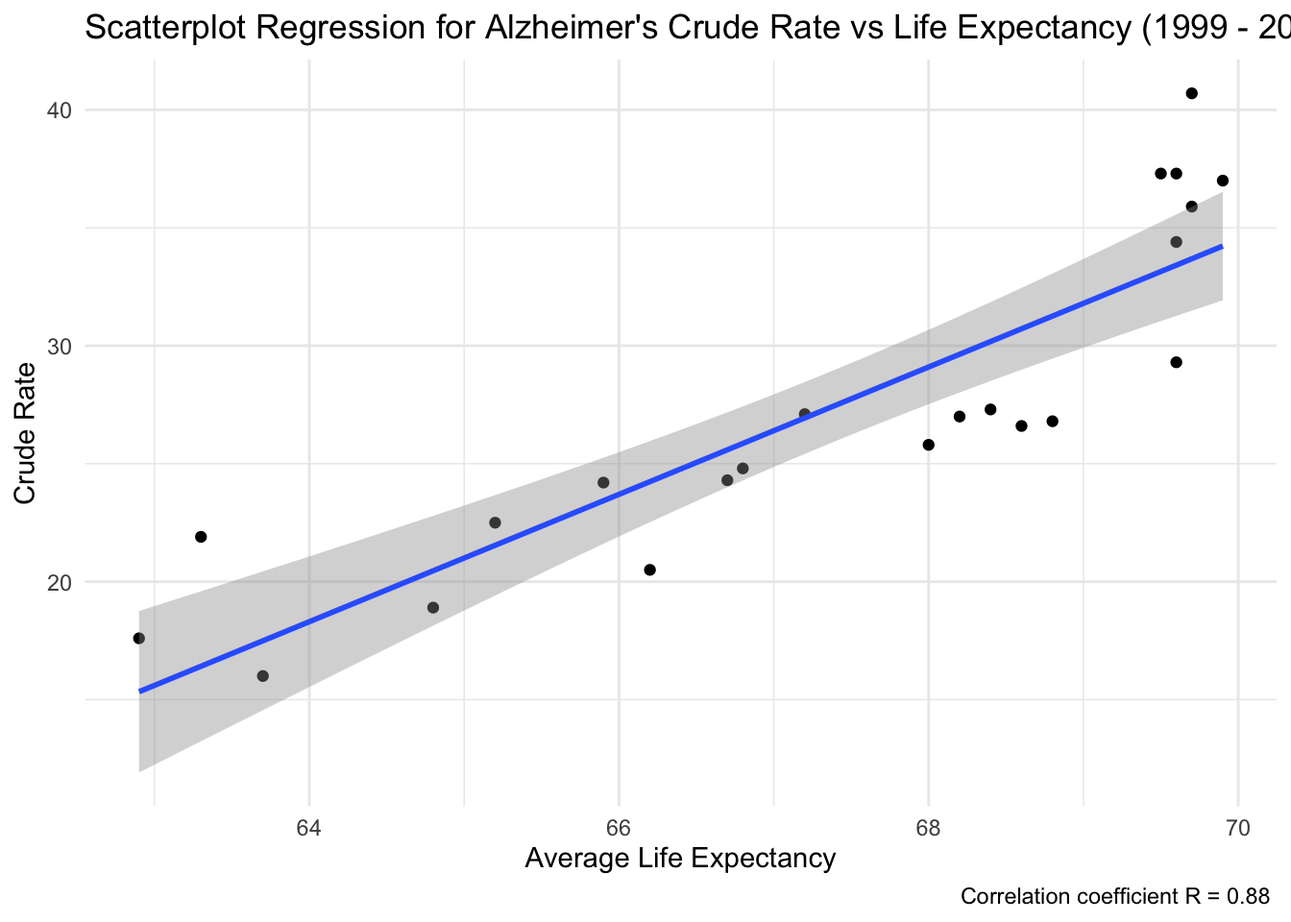
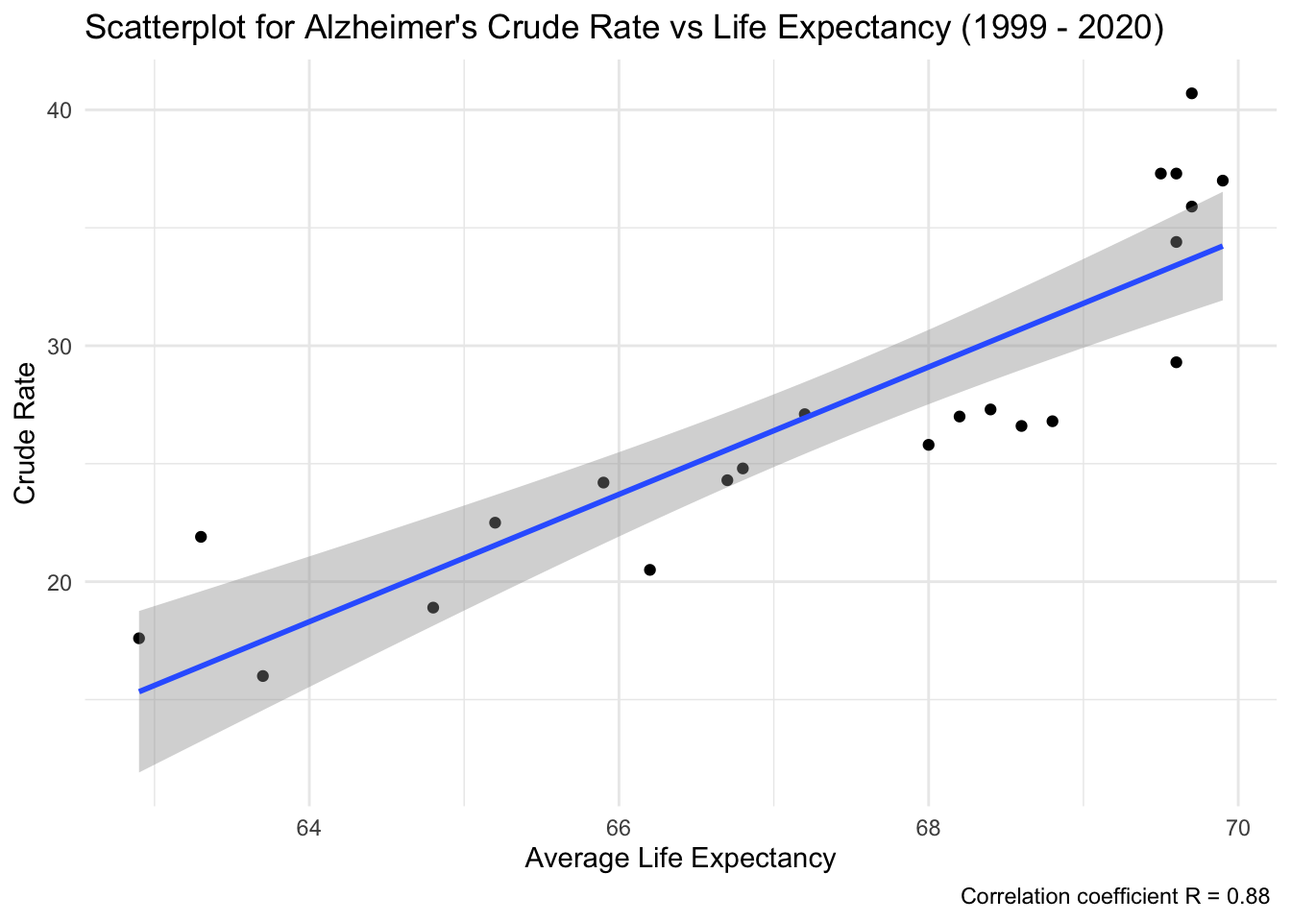
more changes in titles

Changed region(s): [[0.1875, 0.0, 1.0, 0.0625]]

diff --git a/docs/results.html b/docs/results.html
@@ -783,7 +783,7 @@ pre > code.sourceCode > span > a:first-child::before { text-decoration: underlin
 <span id="cb19-14"><a href="#cb19-14" aria-hidden="true" tabindex="-1"></a><span class="fu">ggplot</span>(expectancy_alzheimer_regression_2 <span class="sc">%&gt;%</span> <span class="fu">select</span>(<span class="st">`</span><span class="at">Crude_Rate</span><span class="st">`</span>,<span class="st">`</span><span class="at">Average Life Expectancy (Years)</span><span class="st">`</span>), <span class="fu">aes</span>(<span class="at">x =</span> <span class="st">`</span><span class="at">Average Life Expectancy (Years)</span><span class="st">`</span>, <span class="at">y =</span> <span class="st">`</span><span class="at">Crude_Rate</span><span class="st">`</span>)) <span class="sc">+</span></span>
 <span id="cb19-15"><a href="#cb19-15" aria-hidden="true" tabindex="-1"></a>  <span class="fu">geom_point</span>() <span class="sc">+</span> </span>
 <span id="cb19-16"><a href="#cb19-16" aria-hidden="true" tabindex="-1"></a>  <span class="fu">geom_smooth</span>(<span class="at">method =</span> <span class="st">"lm"</span>) <span class="sc">+</span> </span>
-<span id="cb19-17"><a href="#cb19-17" aria-hidden="true" tabindex="-1"></a>  <span class="fu">labs</span>(<span class="at">x =</span> <span class="st">"Average Life Expectancy"</span>, <span class="at">y =</span> <span class="st">"Crude Rate"</span>, <span class="at">title =</span> <span class="st">"Scatterplot Regression for Alzheimer's Crude Rate vs Life Expectancy (1999 - 2020)"</span>) <span class="sc">+</span> </span>
+<span id="cb19-17"><a href="#cb19-17" aria-hidden="true" tabindex="-1"></a>  <span class="fu">labs</span>(<span class="at">x =</span> <span class="st">"Average Life Expectancy"</span>, <span class="at">y =</span> <span class="st">"Crude Rate"</span>, <span class="at">title =</span> <span class="st">"Scatterplot for Alzheimer's Crude Rate vs Life Expectancy (1999 - 2020)"</span>) <span class="sc">+</span> </span>
 <span id="cb19-18"><a href="#cb19-18" aria-hidden="true" tabindex="-1"></a>  <span class="fu">labs</span>(<span class="at">caption =</span> <span class="st">"Correlation coefficient R = 0.88 "</span>) <span class="sc">+</span></span>
 <span id="cb19-19"><a href="#cb19-19" aria-hidden="true" tabindex="-1"></a>  <span class="fu">theme</span>(<span class="at">plot.caption =</span> <span class="fu">element_text</span>(<span class="at">hjust=</span>.<span class="dv">1</span>)) <span class="sc">+</span></span>
 <span id="cb19-20"><a href="#cb19-20" aria-hidden="true" tabindex="-1"></a>  <span class="fu">theme_minimal</span>()</span></code><button title="Copy to Clipboard" class="code-copy-button"><i class="bi"></i></button></pre></div>
@@ -961,7 +961,7 @@ sample estimates:
 </details>
 <div class="cell-output-display">
 
-<div class="tabwid"><style>.cl-a2020d84{}.cl-a1fec1d8{font-family:'Helvetica';font-size:11pt;font-weight:normal;font-style:normal;text-decoration:none;color:rgba(0, 0, 0, 1.00);background-color:transparent;}.cl-a2002226{margin:0;text-align:left;border-bottom: 0 solid rgba(0, 0, 0, 1.00);border-top: 0 solid rgba(0, 0, 0, 1.00);border-left: 0 solid rgba(0, 0, 0, 1.00);border-right: 0 solid rgba(0, 0, 0, 1.00);padding-bottom:5pt;padding-top:5pt;padding-left:5pt;padding-right:5pt;line-height: 1;background-color:transparent;}.cl-a2002227{margin:0;text-align:right;border-bottom: 0 solid rgba(0, 0, 0, 1.00);border-top: 0 solid rgba(0, 0, 0, 1.00);border-left: 0 solid rgba(0, 0, 0, 1.00);border-right: 0 solid rgba(0, 0, 0, 1.00);padding-bottom:5pt;padding-top:5pt;padding-left:5pt;padding-right:5pt;line-height: 1;background-color:transparent;}.cl-a2002b40{width:0.75in;background-color:transparent;vertical-align: middle;border-bottom: 1.5pt solid rgba(102, 102, 102, 1.00);border-top: 1.5pt solid rgba(102, 102, 102, 1.00);border-left: 0 solid rgba(0, 0, 0, 1.00);border-right: 0 solid rgba(0, 0, 0, 1.00);margin-bottom:0;margin-top:0;margin-left:0;margin-right:0;}.cl-a2002b41{width:0.75in;background-color:transparent;vertical-align: middle;border-bottom: 1.5pt solid rgba(102, 102, 102, 1.00);border-top: 1.5pt solid rgba(102, 102, 102, 1.00);border-left: 0 solid rgba(0, 0, 0, 1.00);border-right: 0 solid rgba(0, 0, 0, 1.00);margin-bottom:0;margin-top:0;margin-left:0;margin-right:0;}.cl-a2002b42{width:0.75in;background-color:transparent;vertical-align: middle;border-bottom: 0 solid rgba(0, 0, 0, 1.00);border-top: 0 solid rgba(0, 0, 0, 1.00);border-left: 0 solid rgba(0, 0, 0, 1.00);border-right: 0 solid rgba(0, 0, 0, 1.00);margin-bottom:0;margin-top:0;margin-left:0;margin-right:0;}.cl-a2002b4a{width:0.75in;background-color:transparent;vertical-align: middle;border-bottom: 0 solid rgba(0, 0, 0, 1.00);border-top: 0 solid rgba(0, 0, 0, 1.00);border-left: 0 solid rgba(0, 0, 0, 1.00);border-right: 0 solid rgba(0, 0, 0, 1.00);margin-bottom:0;margin-top:0;margin-left:0;margin-right:0;}.cl-a2002b4b{width:0.75in;background-color:transparent;vertical-align: middle;border-bottom: 1.5pt solid rgba(102, 102, 102, 1.00);border-top: 0 solid rgba(0, 0, 0, 1.00);border-left: 0 solid rgba(0, 0, 0, 1.00);border-right: 0 solid rgba(0, 0, 0, 1.00);margin-bottom:0;margin-top:0;margin-left:0;margin-right:0;}.cl-a2002b4c{width:0.75in;background-color:transparent;vertical-align: middle;border-bottom: 1.5pt solid rgba(102, 102, 102, 1.00);border-top: 0 solid rgba(0, 0, 0, 1.00);border-left: 0 solid rgba(0, 0, 0, 1.00);border-right: 0 solid rgba(0, 0, 0, 1.00);margin-bottom:0;margin-top:0;margin-left:0;margin-right:0;}</style><table data-quarto-disable-processing="true" class="cl-a2020d84"><thead><tr style="overflow-wrap:break-word;"><th class="cl-a2002b40"><p class="cl-a2002226"><span class="cl-a1fec1d8">State</span></p></th><th class="cl-a2002b41"><p class="cl-a2002227"><span class="cl-a1fec1d8">Avg</span></p></th></tr></thead><tbody><tr style="overflow-wrap:break-word;"><td class="cl-a2002b42"><p class="cl-a2002226"><span class="cl-a1fec1d8">Wyoming</span></p></td><td class="cl-a2002b4a"><p class="cl-a2002227"><span class="cl-a1fec1d8">22.60</span></p></td></tr><tr style="overflow-wrap:break-word;"><td class="cl-a2002b42"><p class="cl-a2002226"><span class="cl-a1fec1d8">Alaska</span></p></td><td class="cl-a2002b4a"><p class="cl-a2002227"><span class="cl-a1fec1d8">22.56</span></p></td></tr><tr style="overflow-wrap:break-word;"><td class="cl-a2002b42"><p class="cl-a2002226"><span class="cl-a1fec1d8">Montana</span></p></td><td class="cl-a2002b4a"><p class="cl-a2002227"><span class="cl-a1fec1d8">22.15</span></p></td></tr><tr style="overflow-wrap:break-word;"><td class="cl-a2002b42"><p class="cl-a2002226"><span class="cl-a1fec1d8">New Mexico</span></p></td><td class="cl-a2002b4a"><p class="cl-a2002227"><span class="cl-a1fec1d8">20.64</span></p></td></tr><tr style="overflow-wrap:break-word;"><td class="cl-a2002b42"><p class="cl-a2002226"><span class="cl-a1fec1d8">Nevada</span></p></td><td class="cl-a2002b4a"><p class="cl-a2002227"><span class="cl-a1fec1d8">19.44</span></p></td></tr><tr style="overflow-wrap:break-word;"><td class="cl-a2002b42"><p class="cl-a2002226"><span class="cl-a1fec1d8">Idaho</span></p></td><td class="cl-a2002b4a"><p class="cl-a2002227"><span class="cl-a1fec1d8">18.53</span></p></td></tr><tr style="overflow-wrap:break-word;"><td class="cl-a2002b42"><p class="cl-a2002226"><span class="cl-a1fec1d8">Utah</span></p></td><td class="cl-a2002b4a"><p class="cl-a2002227"><span class="cl-a1fec1d8">18.44</span></p></td></tr><tr style="overflow-wrap:break-word;"><td class="cl-a2002b42"><p class="cl-a2002226"><span class="cl-a1fec1d8">Colorado</span></p></td><td class="cl-a2002b4a"><p class="cl-a2002227"><span class="cl-a1fec1d8">18.01</span></p></td></tr><tr style="overflow-wrap:break-word;"><td class="cl-a2002b42"><p class="cl-a2002226"><span class="cl-a1fec1d8">Oklahoma</span></p></td><td class="cl-a2002b4a"><p class="cl-a2002227"><span class="cl-a1fec1d8">16.98</span></p></td></tr><tr style="overflow-wrap:break-word;"><td class="cl-a2002b4b"><p class="cl-a2002226"><span class="cl-a1fec1d8">Arizona</span></p></td><td class="cl-a2002b4c"><p class="cl-a2002227"><span class="cl-a1fec1d8">16.93</span></p></td></tr></tbody></table></div>
+<div class="tabwid"><style>.cl-fdb1b4a4{}.cl-fdae6a4c{font-family:'Helvetica';font-size:11pt;font-weight:normal;font-style:normal;text-decoration:none;color:rgba(0, 0, 0, 1.00);background-color:transparent;}.cl-fdafcb3a{margin:0;text-align:left;border-bottom: 0 solid rgba(0, 0, 0, 1.00);border-top: 0 solid rgba(0, 0, 0, 1.00);border-left: 0 solid rgba(0, 0, 0, 1.00);border-right: 0 solid rgba(0, 0, 0, 1.00);padding-bottom:5pt;padding-top:5pt;padding-left:5pt;padding-right:5pt;line-height: 1;background-color:transparent;}.cl-fdafcb3b{margin:0;text-align:right;border-bottom: 0 solid rgba(0, 0, 0, 1.00);border-top: 0 solid rgba(0, 0, 0, 1.00);border-left: 0 solid rgba(0, 0, 0, 1.00);border-right: 0 solid rgba(0, 0, 0, 1.00);padding-bottom:5pt;padding-top:5pt;padding-left:5pt;padding-right:5pt;line-height: 1;background-color:transparent;}.cl-fdafd468{width:0.75in;background-color:transparent;vertical-align: middle;border-bottom: 1.5pt solid rgba(102, 102, 102, 1.00);border-top: 1.5pt solid rgba(102, 102, 102, 1.00);border-left: 0 solid rgba(0, 0, 0, 1.00);border-right: 0 solid rgba(0, 0, 0, 1.00);margin-bottom:0;margin-top:0;margin-left:0;margin-right:0;}.cl-fdafd469{width:0.75in;background-color:transparent;vertical-align: middle;border-bottom: 1.5pt solid rgba(102, 102, 102, 1.00);border-top: 1.5pt solid rgba(102, 102, 102, 1.00);border-left: 0 solid rgba(0, 0, 0, 1.00);border-right: 0 solid rgba(0, 0, 0, 1.00);margin-bottom:0;margin-top:0;margin-left:0;margin-right:0;}.cl-fdafd46a{width:0.75in;background-color:transparent;vertical-align: middle;border-bottom: 0 solid rgba(0, 0, 0, 1.00);border-top: 0 solid rgba(0, 0, 0, 1.00);border-left: 0 solid rgba(0, 0, 0, 1.00);border-right: 0 solid rgba(0, 0, 0, 1.00);margin-bottom:0;margin-top:0;margin-left:0;margin-right:0;}.cl-fdafd46b{width:0.75in;background-color:transparent;vertical-align: middle;border-bottom: 0 solid rgba(0, 0, 0, 1.00);border-top: 0 solid rgba(0, 0, 0, 1.00);border-left: 0 solid rgba(0, 0, 0, 1.00);border-right: 0 solid rgba(0, 0, 0, 1.00);margin-bottom:0;margin-top:0;margin-left:0;margin-right:0;}.cl-fdafd46c{width:0.75in;background-color:transparent;vertical-align: middle;border-bottom: 1.5pt solid rgba(102, 102, 102, 1.00);border-top: 0 solid rgba(0, 0, 0, 1.00);border-left: 0 solid rgba(0, 0, 0, 1.00);border-right: 0 solid rgba(0, 0, 0, 1.00);margin-bottom:0;margin-top:0;margin-left:0;margin-right:0;}.cl-fdafd472{width:0.75in;background-color:transparent;vertical-align: middle;border-bottom: 1.5pt solid rgba(102, 102, 102, 1.00);border-top: 0 solid rgba(0, 0, 0, 1.00);border-left: 0 solid rgba(0, 0, 0, 1.00);border-right: 0 solid rgba(0, 0, 0, 1.00);margin-bottom:0;margin-top:0;margin-left:0;margin-right:0;}</style><table data-quarto-disable-processing="true" class="cl-fdb1b4a4"><thead><tr style="overflow-wrap:break-word;"><th class="cl-fdafd468"><p class="cl-fdafcb3a"><span class="cl-fdae6a4c">State</span></p></th><th class="cl-fdafd469"><p class="cl-fdafcb3b"><span class="cl-fdae6a4c">Avg</span></p></th></tr></thead><tbody><tr style="overflow-wrap:break-word;"><td class="cl-fdafd46a"><p class="cl-fdafcb3a"><span class="cl-fdae6a4c">Wyoming</span></p></td><td class="cl-fdafd46b"><p class="cl-fdafcb3b"><span class="cl-fdae6a4c">22.60</span></p></td></tr><tr style="overflow-wrap:break-word;"><td class="cl-fdafd46a"><p class="cl-fdafcb3a"><span class="cl-fdae6a4c">Alaska</span></p></td><td class="cl-fdafd46b"><p class="cl-fdafcb3b"><span class="cl-fdae6a4c">22.56</span></p></td></tr><tr style="overflow-wrap:break-word;"><td class="cl-fdafd46a"><p class="cl-fdafcb3a"><span class="cl-fdae6a4c">Montana</span></p></td><td class="cl-fdafd46b"><p class="cl-fdafcb3b"><span class="cl-fdae6a4c">22.15</span></p></td></tr><tr style="overflow-wrap:break-word;"><td class="cl-fdafd46a"><p class="cl-fdafcb3a"><span class="cl-fdae6a4c">New Mexico</span></p></td><td class="cl-fdafd46b"><p class="cl-fdafcb3b"><span class="cl-fdae6a4c">20.64</span></p></td></tr><tr style="overflow-wrap:break-word;"><td class="cl-fdafd46a"><p class="cl-fdafcb3a"><span class="cl-fdae6a4c">Nevada</span></p></td><td class="cl-fdafd46b"><p class="cl-fdafcb3b"><span class="cl-fdae6a4c">19.44</span></p></td></tr><tr style="overflow-wrap:break-word;"><td class="cl-fdafd46a"><p class="cl-fdafcb3a"><span class="cl-fdae6a4c">Idaho</span></p></td><td class="cl-fdafd46b"><p class="cl-fdafcb3b"><span class="cl-fdae6a4c">18.53</span></p></td></tr><tr style="overflow-wrap:break-word;"><td class="cl-fdafd46a"><p class="cl-fdafcb3a"><span class="cl-fdae6a4c">Utah</span></p></td><td class="cl-fdafd46b"><p class="cl-fdafcb3b"><span class="cl-fdae6a4c">18.44</span></p></td></tr><tr style="overflow-wrap:break-word;"><td class="cl-fdafd46a"><p class="cl-fdafcb3a"><span class="cl-fdae6a4c">Colorado</span></p></td><td class="cl-fdafd46b"><p class="cl-fdafcb3b"><span class="cl-fdae6a4c">18.01</span></p></td></tr><tr style="overflow-wrap:break-word;"><td class="cl-fdafd46a"><p class="cl-fdafcb3a"><span class="cl-fdae6a4c">Oklahoma</span></p></td><td class="cl-fdafd46b"><p class="cl-fdafcb3b"><span class="cl-fdae6a4c">16.98</span></p></td></tr><tr style="overflow-wrap:break-word;"><td class="cl-fdafd46c"><p class="cl-fdafcb3a"><span class="cl-fdae6a4c">Arizona</span></p></td><td class="cl-fdafd472"><p class="cl-fdafcb3b"><span class="cl-fdae6a4c">16.93</span></p></td></tr></tbody></table></div>
 </div>
 <details>
 <summary>Code</summary>
@@ -987,7 +987,7 @@ sample estimates:
 </details>
 <div class="cell-output-display">
 
-<div class="tabwid"><style>.cl-a20ae684{}.cl-a207f0dc{font-family:'Helvetica';font-size:11pt;font-weight:normal;font-style:normal;text-decoration:none;color:rgba(0, 0, 0, 1.00);background-color:transparent;}.cl-a2093352{margin:0;text-align:left;border-bottom: 0 solid rgba(0, 0, 0, 1.00);border-top: 0 solid rgba(0, 0, 0, 1.00);border-left: 0 solid rgba(0, 0, 0, 1.00);border-right: 0 solid rgba(0, 0, 0, 1.00);padding-bottom:5pt;padding-top:5pt;padding-left:5pt;padding-right:5pt;line-height: 1;background-color:transparent;}.cl-a2093353{margin:0;text-align:right;border-bottom: 0 solid rgba(0, 0, 0, 1.00);border-top: 0 solid rgba(0, 0, 0, 1.00);border-left: 0 solid rgba(0, 0, 0, 1.00);border-right: 0 solid rgba(0, 0, 0, 1.00);padding-bottom:5pt;padding-top:5pt;padding-left:5pt;padding-right:5pt;line-height: 1;background-color:transparent;}.cl-a2093afa{width:0.75in;background-color:transparent;vertical-align: middle;border-bottom: 1.5pt solid rgba(102, 102, 102, 1.00);border-top: 1.5pt solid rgba(102, 102, 102, 1.00);border-left: 0 solid rgba(0, 0, 0, 1.00);border-right: 0 solid rgba(0, 0, 0, 1.00);margin-bottom:0;margin-top:0;margin-left:0;margin-right:0;}.cl-a2093afb{width:0.75in;background-color:transparent;vertical-align: middle;border-bottom: 1.5pt solid rgba(102, 102, 102, 1.00);border-top: 1.5pt solid rgba(102, 102, 102, 1.00);border-left: 0 solid rgba(0, 0, 0, 1.00);border-right: 0 solid rgba(0, 0, 0, 1.00);margin-bottom:0;margin-top:0;margin-left:0;margin-right:0;}.cl-a2093afc{width:0.75in;background-color:transparent;vertical-align: middle;border-bottom: 0 solid rgba(0, 0, 0, 1.00);border-top: 0 solid rgba(0, 0, 0, 1.00);border-left: 0 solid rgba(0, 0, 0, 1.00);border-right: 0 solid rgba(0, 0, 0, 1.00);margin-bottom:0;margin-top:0;margin-left:0;margin-right:0;}.cl-a2093b04{width:0.75in;background-color:transparent;vertical-align: middle;border-bottom: 0 solid rgba(0, 0, 0, 1.00);border-top: 0 solid rgba(0, 0, 0, 1.00);border-left: 0 solid rgba(0, 0, 0, 1.00);border-right: 0 solid rgba(0, 0, 0, 1.00);margin-bottom:0;margin-top:0;margin-left:0;margin-right:0;}.cl-a2093b05{width:0.75in;background-color:transparent;vertical-align: middle;border-bottom: 1.5pt solid rgba(102, 102, 102, 1.00);border-top: 0 solid rgba(0, 0, 0, 1.00);border-left: 0 solid rgba(0, 0, 0, 1.00);border-right: 0 solid rgba(0, 0, 0, 1.00);margin-bottom:0;margin-top:0;margin-left:0;margin-right:0;}.cl-a2093b0e{width:0.75in;background-color:transparent;vertical-align: middle;border-bottom: 1.5pt solid rgba(102, 102, 102, 1.00);border-top: 0 solid rgba(0, 0, 0, 1.00);border-left: 0 solid rgba(0, 0, 0, 1.00);border-right: 0 solid rgba(0, 0, 0, 1.00);margin-bottom:0;margin-top:0;margin-left:0;margin-right:0;}</style><table data-quarto-disable-processing="true" class="cl-a20ae684"><thead><tr style="overflow-wrap:break-word;"><th class="cl-a2093afa"><p class="cl-a2093352"><span class="cl-a207f0dc">State</span></p></th><th class="cl-a2093afb"><p class="cl-a2093353"><span class="cl-a207f0dc">densityMi</span></p></th></tr></thead><tbody><tr style="overflow-wrap:break-word;"><td class="cl-a2093afc"><p class="cl-a2093352"><span class="cl-a207f0dc">Alaska</span></p></td><td class="cl-a2093b04"><p class="cl-a2093353"><span class="cl-a207f0dc">1.28</span></p></td></tr><tr style="overflow-wrap:break-word;"><td class="cl-a2093afc"><p class="cl-a2093352"><span class="cl-a207f0dc">Wyoming</span></p></td><td class="cl-a2093b04"><p class="cl-a2093353"><span class="cl-a207f0dc">6.01</span></p></td></tr><tr style="overflow-wrap:break-word;"><td class="cl-a2093afc"><p class="cl-a2093352"><span class="cl-a207f0dc">Montana</span></p></td><td class="cl-a2093b04"><p class="cl-a2093353"><span class="cl-a207f0dc">7.83</span></p></td></tr><tr style="overflow-wrap:break-word;"><td class="cl-a2093afc"><p class="cl-a2093352"><span class="cl-a207f0dc">North Dakota</span></p></td><td class="cl-a2093b04"><p class="cl-a2093353"><span class="cl-a207f0dc">11.31</span></p></td></tr><tr style="overflow-wrap:break-word;"><td class="cl-a2093afc"><p class="cl-a2093352"><span class="cl-a207f0dc">South Dakota</span></p></td><td class="cl-a2093b04"><p class="cl-a2093353"><span class="cl-a207f0dc">12.18</span></p></td></tr><tr style="overflow-wrap:break-word;"><td class="cl-a2093afc"><p class="cl-a2093352"><span class="cl-a207f0dc">New Mexico</span></p></td><td class="cl-a2093b04"><p class="cl-a2093353"><span class="cl-a207f0dc">17.40</span></p></td></tr><tr style="overflow-wrap:break-word;"><td class="cl-a2093afc"><p class="cl-a2093352"><span class="cl-a207f0dc">Idaho</span></p></td><td class="cl-a2093b04"><p class="cl-a2093353"><span class="cl-a207f0dc">23.88</span></p></td></tr><tr style="overflow-wrap:break-word;"><td class="cl-a2093afc"><p class="cl-a2093352"><span class="cl-a207f0dc">Nebraska</span></p></td><td class="cl-a2093b04"><p class="cl-a2093353"><span class="cl-a207f0dc">25.67</span></p></td></tr><tr style="overflow-wrap:break-word;"><td class="cl-a2093afc"><p class="cl-a2093352"><span class="cl-a207f0dc">Nevada</span></p></td><td class="cl-a2093b04"><p class="cl-a2093353"><span class="cl-a207f0dc">29.23</span></p></td></tr><tr style="overflow-wrap:break-word;"><td class="cl-a2093b05"><p class="cl-a2093352"><span class="cl-a207f0dc">Kansas</span></p></td><td class="cl-a2093b0e"><p class="cl-a2093353"><span class="cl-a207f0dc">35.92</span></p></td></tr></tbody></table></div>
+<div class="tabwid"><style>.cl-fdba7026{}.cl-fdb789a6{font-family:'Helvetica';font-size:11pt;font-weight:normal;font-style:normal;text-decoration:none;color:rgba(0, 0, 0, 1.00);background-color:transparent;}.cl-fdb8bcc2{margin:0;text-align:left;border-bottom: 0 solid rgba(0, 0, 0, 1.00);border-top: 0 solid rgba(0, 0, 0, 1.00);border-left: 0 solid rgba(0, 0, 0, 1.00);border-right: 0 solid rgba(0, 0, 0, 1.00);padding-bottom:5pt;padding-top:5pt;padding-left:5pt;padding-right:5pt;line-height: 1;background-color:transparent;}.cl-fdb8bcc3{margin:0;text-align:right;border-bottom: 0 solid rgba(0, 0, 0, 1.00);border-top: 0 solid rgba(0, 0, 0, 1.00);border-left: 0 solid rgba(0, 0, 0, 1.00);border-right: 0 solid rgba(0, 0, 0, 1.00);padding-bottom:5pt;padding-top:5pt;padding-left:5pt;padding-right:5pt;line-height: 1;background-color:transparent;}.cl-fdb8c532{width:0.75in;background-color:transparent;vertical-align: middle;border-bottom: 1.5pt solid rgba(102, 102, 102, 1.00);border-top: 1.5pt solid rgba(102, 102, 102, 1.00);border-left: 0 solid rgba(0, 0, 0, 1.00);border-right: 0 solid rgba(0, 0, 0, 1.00);margin-bottom:0;margin-top:0;margin-left:0;margin-right:0;}.cl-fdb8c533{width:0.75in;background-color:transparent;vertical-align: middle;border-bottom: 1.5pt solid rgba(102, 102, 102, 1.00);border-top: 1.5pt solid rgba(102, 102, 102, 1.00);border-left: 0 solid rgba(0, 0, 0, 1.00);border-right: 0 solid rgba(0, 0, 0, 1.00);margin-bottom:0;margin-top:0;margin-left:0;margin-right:0;}.cl-fdb8c534{width:0.75in;background-color:transparent;vertical-align: middle;border-bottom: 0 solid rgba(0, 0, 0, 1.00);border-top: 0 solid rgba(0, 0, 0, 1.00);border-left: 0 solid rgba(0, 0, 0, 1.00);border-right: 0 solid rgba(0, 0, 0, 1.00);margin-bottom:0;margin-top:0;margin-left:0;margin-right:0;}.cl-fdb8c53c{width:0.75in;background-color:transparent;vertical-align: middle;border-bottom: 0 solid rgba(0, 0, 0, 1.00);border-top: 0 solid rgba(0, 0, 0, 1.00);border-left: 0 solid rgba(0, 0, 0, 1.00);border-right: 0 solid rgba(0, 0, 0, 1.00);margin-bottom:0;margin-top:0;margin-left:0;margin-right:0;}.cl-fdb8c53d{width:0.75in;background-color:transparent;vertical-align: middle;border-bottom: 1.5pt solid rgba(102, 102, 102, 1.00);border-top: 0 solid rgba(0, 0, 0, 1.00);border-left: 0 solid rgba(0, 0, 0, 1.00);border-right: 0 solid rgba(0, 0, 0, 1.00);margin-bottom:0;margin-top:0;margin-left:0;margin-right:0;}.cl-fdb8c53e{width:0.75in;background-color:transparent;vertical-align: middle;border-bottom: 1.5pt solid rgba(102, 102, 102, 1.00);border-top: 0 solid rgba(0, 0, 0, 1.00);border-left: 0 solid rgba(0, 0, 0, 1.00);border-right: 0 solid rgba(0, 0, 0, 1.00);margin-bottom:0;margin-top:0;margin-left:0;margin-right:0;}</style><table data-quarto-disable-processing="true" class="cl-fdba7026"><thead><tr style="overflow-wrap:break-word;"><th class="cl-fdb8c532"><p class="cl-fdb8bcc2"><span class="cl-fdb789a6">State</span></p></th><th class="cl-fdb8c533"><p class="cl-fdb8bcc3"><span class="cl-fdb789a6">densityMi</span></p></th></tr></thead><tbody><tr style="overflow-wrap:break-word;"><td class="cl-fdb8c534"><p class="cl-fdb8bcc2"><span class="cl-fdb789a6">Alaska</span></p></td><td class="cl-fdb8c53c"><p class="cl-fdb8bcc3"><span class="cl-fdb789a6">1.28</span></p></td></tr><tr style="overflow-wrap:break-word;"><td class="cl-fdb8c534"><p class="cl-fdb8bcc2"><span class="cl-fdb789a6">Wyoming</span></p></td><td class="cl-fdb8c53c"><p class="cl-fdb8bcc3"><span class="cl-fdb789a6">6.01</span></p></td></tr><tr style="overflow-wrap:break-word;"><td class="cl-fdb8c534"><p class="cl-fdb8bcc2"><span class="cl-fdb789a6">Montana</span></p></td><td class="cl-fdb8c53c"><p class="cl-fdb8bcc3"><span class="cl-fdb789a6">7.83</span></p></td></tr><tr style="overflow-wrap:break-word;"><td class="cl-fdb8c534"><p class="cl-fdb8bcc2"><span class="cl-fdb789a6">North Dakota</span></p></td><td class="cl-fdb8c53c"><p class="cl-fdb8bcc3"><span class="cl-fdb789a6">11.31</span></p></td></tr><tr style="overflow-wrap:break-word;"><td class="cl-fdb8c534"><p class="cl-fdb8bcc2"><span class="cl-fdb789a6">South Dakota</span></p></td><td class="cl-fdb8c53c"><p class="cl-fdb8bcc3"><span class="cl-fdb789a6">12.18</span></p></td></tr><tr style="overflow-wrap:break-word;"><td class="cl-fdb8c534"><p class="cl-fdb8bcc2"><span class="cl-fdb789a6">New Mexico</span></p></td><td class="cl-fdb8c53c"><p class="cl-fdb8bcc3"><span class="cl-fdb789a6">17.40</span></p></td></tr><tr style="overflow-wrap:break-word;"><td class="cl-fdb8c534"><p class="cl-fdb8bcc2"><span class="cl-fdb789a6">Idaho</span></p></td><td class="cl-fdb8c53c"><p class="cl-fdb8bcc3"><span class="cl-fdb789a6">23.88</span></p></td></tr><tr style="overflow-wrap:break-word;"><td class="cl-fdb8c534"><p class="cl-fdb8bcc2"><span class="cl-fdb789a6">Nebraska</span></p></td><td class="cl-fdb8c53c"><p class="cl-fdb8bcc3"><span class="cl-fdb789a6">25.67</span></p></td></tr><tr style="overflow-wrap:break-word;"><td class="cl-fdb8c534"><p class="cl-fdb8bcc2"><span class="cl-fdb789a6">Nevada</span></p></td><td class="cl-fdb8c53c"><p class="cl-fdb8bcc3"><span class="cl-fdb789a6">29.23</span></p></td></tr><tr style="overflow-wrap:break-word;"><td class="cl-fdb8c53d"><p class="cl-fdb8bcc2"><span class="cl-fdb789a6">Kansas</span></p></td><td class="cl-fdb8c53e"><p class="cl-fdb8bcc3"><span class="cl-fdb789a6">35.92</span></p></td></tr></tbody></table></div>
 </div>
 </div>
 <div class="cell">

diff --git a/docs/data.html b/docs/data.html
@@ -266,7 +266,7 @@ pre > code.sourceCode > span > a:first-child::before { text-decoration: underlin
 </details>
 <div class="cell-output-display">
 
-<div class="tabwid"><style>.cl-9c12f69a{}.cl-9c0ed29a{font-family:'Helvetica';font-size:11pt;font-weight:normal;font-style:normal;text-decoration:none;color:rgba(0, 0, 0, 1.00);background-color:transparent;}.cl-9c107866{margin:0;text-align:right;border-bottom: 0 solid rgba(0, 0, 0, 1.00);border-top: 0 solid rgba(0, 0, 0, 1.00);border-left: 0 solid rgba(0, 0, 0, 1.00);border-right: 0 solid rgba(0, 0, 0, 1.00);padding-bottom:5pt;padding-top:5pt;padding-left:5pt;padding-right:5pt;line-height: 1;background-color:transparent;}.cl-9c107870{margin:0;text-align:left;border-bottom: 0 solid rgba(0, 0, 0, 1.00);border-top: 0 solid rgba(0, 0, 0, 1.00);border-left: 0 solid rgba(0, 0, 0, 1.00);border-right: 0 solid rgba(0, 0, 0, 1.00);padding-bottom:5pt;padding-top:5pt;padding-left:5pt;padding-right:5pt;line-height: 1;background-color:transparent;}.cl-9c10820c{width:0.75in;background-color:transparent;vertical-align: middle;border-bottom: 1.5pt solid rgba(102, 102, 102, 1.00);border-top: 1.5pt solid rgba(102, 102, 102, 1.00);border-left: 0 solid rgba(0, 0, 0, 1.00);border-right: 0 solid rgba(0, 0, 0, 1.00);margin-bottom:0;margin-top:0;margin-left:0;margin-right:0;}.cl-9c10820d{width:0.75in;background-color:transparent;vertical-align: middle;border-bottom: 1.5pt solid rgba(102, 102, 102, 1.00);border-top: 1.5pt solid rgba(102, 102, 102, 1.00);border-left: 0 solid rgba(0, 0, 0, 1.00);border-right: 0 solid rgba(0, 0, 0, 1.00);margin-bottom:0;margin-top:0;margin-left:0;margin-right:0;}.cl-9c108216{width:0.75in;background-color:transparent;vertical-align: middle;border-bottom: 0 solid rgba(0, 0, 0, 1.00);border-top: 0 solid rgba(0, 0, 0, 1.00);border-left: 0 solid rgba(0, 0, 0, 1.00);border-right: 0 solid rgba(0, 0, 0, 1.00);margin-bottom:0;margin-top:0;margin-left:0;margin-right:0;}.cl-9c108217{width:0.75in;background-color:transparent;vertical-align: middle;border-bottom: 0 solid rgba(0, 0, 0, 1.00);border-top: 0 solid rgba(0, 0, 0, 1.00);border-left: 0 solid rgba(0, 0, 0, 1.00);border-right: 0 solid rgba(0, 0, 0, 1.00);margin-bottom:0;margin-top:0;margin-left:0;margin-right:0;}.cl-9c108218{width:0.75in;background-color:transparent;vertical-align: middle;border-bottom: 1.5pt solid rgba(102, 102, 102, 1.00);border-top: 0 solid rgba(0, 0, 0, 1.00);border-left: 0 solid rgba(0, 0, 0, 1.00);border-right: 0 solid rgba(0, 0, 0, 1.00);margin-bottom:0;margin-top:0;margin-left:0;margin-right:0;}.cl-9c108220{width:0.75in;background-color:transparent;vertical-align: middle;border-bottom: 1.5pt solid rgba(102, 102, 102, 1.00);border-top: 0 solid rgba(0, 0, 0, 1.00);border-left: 0 solid rgba(0, 0, 0, 1.00);border-right: 0 solid rgba(0, 0, 0, 1.00);margin-bottom:0;margin-top:0;margin-left:0;margin-right:0;}</style><table data-quarto-disable-processing="true" class="cl-9c12f69a"><thead><tr style="overflow-wrap:break-word;"><th class="cl-9c10820c"><p class="cl-9c107866"><span class="cl-9c0ed29a">Year</span></p></th><th class="cl-9c10820d"><p class="cl-9c107870"><span class="cl-9c0ed29a">113 Cause Name</span></p></th><th class="cl-9c10820d"><p class="cl-9c107870"><span class="cl-9c0ed29a">Cause Name</span></p></th><th class="cl-9c10820d"><p class="cl-9c107870"><span class="cl-9c0ed29a">State</span></p></th><th class="cl-9c10820c"><p class="cl-9c107866"><span class="cl-9c0ed29a">Deaths</span></p></th><th class="cl-9c10820c"><p class="cl-9c107866"><span class="cl-9c0ed29a">Population</span></p></th><th class="cl-9c10820c"><p class="cl-9c107866"><span class="cl-9c0ed29a">Crude Rate</span></p></th><th class="cl-9c10820c"><p class="cl-9c107866"><span class="cl-9c0ed29a">Age Adjusted Rate</span></p></th></tr></thead><tbody><tr style="overflow-wrap:break-word;"><td class="cl-9c108216"><p class="cl-9c107866"><span class="cl-9c0ed29a">1,999</span></p></td><td class="cl-9c108217"><p class="cl-9c107870"><span class="cl-9c0ed29a">Tuberculosis (A16-A19)</span></p></td><td class="cl-9c108217"><p class="cl-9c107870"><span class="cl-9c0ed29a">Tuberculosis</span></p></td><td class="cl-9c108217"><p class="cl-9c107870"><span class="cl-9c0ed29a">Alabama</span></p></td><td class="cl-9c108216"><p class="cl-9c107866"><span class="cl-9c0ed29a">16</span></p></td><td class="cl-9c108216"><p class="cl-9c107866"><span class="cl-9c0ed29a">4,430,141</span></p></td><td class="cl-9c108216"><p class="cl-9c107866"><span class="cl-9c0ed29a"></span></p></td><td class="cl-9c108216"><p class="cl-9c107866"><span class="cl-9c0ed29a"></span></p></td></tr><tr style="overflow-wrap:break-word;"><td class="cl-9c108216"><p class="cl-9c107866"><span class="cl-9c0ed29a">1,999</span></p></td><td class="cl-9c108217"><p class="cl-9c107870"><span class="cl-9c0ed29a">Septicemia (A40-A41)</span></p></td><td class="cl-9c108217"><p class="cl-9c107870"><span class="cl-9c0ed29a">Septicemia</span></p></td><td class="cl-9c108217"><p class="cl-9c107870"><span class="cl-9c0ed29a">Alabama</span></p></td><td class="cl-9c108216"><p class="cl-9c107866"><span class="cl-9c0ed29a">691</span></p></td><td class="cl-9c108216"><p class="cl-9c107866"><span class="cl-9c0ed29a">4,430,141</span></p></td><td class="cl-9c108216"><p class="cl-9c107866"><span class="cl-9c0ed29a">15.6</span></p></td><td class="cl-9c108216"><p class="cl-9c107866"><span class="cl-9c0ed29a">15.6</span></p></td></tr><tr style="overflow-wrap:break-word;"><td class="cl-9c108216"><p class="cl-9c107866"><span class="cl-9c0ed29a">1,999</span></p></td><td class="cl-9c108217"><p class="cl-9c107870"><span class="cl-9c0ed29a">Viral hepatitis (B15-B19)</span></p></td><td class="cl-9c108217"><p class="cl-9c107870"><span class="cl-9c0ed29a">Viral hepatitis</span></p></td><td class="cl-9c108217"><p class="cl-9c107870"><span class="cl-9c0ed29a">Alabama</span></p></td><td class="cl-9c108216"><p class="cl-9c107866"><span class="cl-9c0ed29a">63</span></p></td><td class="cl-9c108216"><p class="cl-9c107866"><span class="cl-9c0ed29a">4,430,141</span></p></td><td class="cl-9c108216"><p class="cl-9c107866"><span class="cl-9c0ed29a">1.4</span></p></td><td class="cl-9c108216"><p class="cl-9c107866"><span class="cl-9c0ed29a">1.4</span></p></td></tr><tr style="overflow-wrap:break-word;"><td class="cl-9c108216"><p class="cl-9c107866"><span class="cl-9c0ed29a">1,999</span></p></td><td class="cl-9c108217"><p class="cl-9c107870"><span class="cl-9c0ed29a">Human immunodeficiency virus (HIV) disease (B20-B24)</span></p></td><td class="cl-9c108217"><p class="cl-9c107870"><span class="cl-9c0ed29a">Human immunodeficiency virus</span></p></td><td class="cl-9c108217"><p class="cl-9c107870"><span class="cl-9c0ed29a">Alabama</span></p></td><td class="cl-9c108216"><p class="cl-9c107866"><span class="cl-9c0ed29a">177</span></p></td><td class="cl-9c108216"><p class="cl-9c107866"><span class="cl-9c0ed29a">4,430,141</span></p></td><td class="cl-9c108216"><p class="cl-9c107866"><span class="cl-9c0ed29a">4.0</span></p></td><td class="cl-9c108216"><p class="cl-9c107866"><span class="cl-9c0ed29a">4.0</span></p></td></tr><tr style="overflow-wrap:break-word;"><td class="cl-9c108216"><p class="cl-9c107866"><span class="cl-9c0ed29a">1,999</span></p></td><td class="cl-9c108217"><p class="cl-9c107870"><span class="cl-9c0ed29a">Malignant neoplasms (C00-C97)</span></p></td><td class="cl-9c108217"><p class="cl-9c107870"><span class="cl-9c0ed29a">Cancer</span></p></td><td class="cl-9c108217"><p class="cl-9c107870"><span class="cl-9c0ed29a">Alabama</span></p></td><td class="cl-9c108216"><p class="cl-9c107866"><span class="cl-9c0ed29a">9,506</span></p></td><td class="cl-9c108216"><p class="cl-9c107866"><span class="cl-9c0ed29a">4,430,141</span></p></td><td class="cl-9c108216"><p class="cl-9c107866"><span class="cl-9c0ed29a">214.6</span></p></td><td class="cl-9c108216"><p class="cl-9c107866"><span class="cl-9c0ed29a">210.9</span></p></td></tr><tr style="overflow-wrap:break-word;"><td class="cl-9c108218"><p class="cl-9c107866"><span class="cl-9c0ed29a">1,999</span></p></td><td class="cl-9c108220"><p class="cl-9c107870"><span class="cl-9c0ed29a">In situ neoplasms, benign neoplasms and neoplasms of uncertain or unknown behavior (D00-D48)</span></p></td><td class="cl-9c108220"><p class="cl-9c107870"><span class="cl-9c0ed29a">In situ neoplasms</span></p></td><td class="cl-9c108220"><p class="cl-9c107870"><span class="cl-9c0ed29a">Alabama</span></p></td><td class="cl-9c108218"><p class="cl-9c107866"><span class="cl-9c0ed29a">237</span></p></td><td class="cl-9c108218"><p class="cl-9c107866"><span class="cl-9c0ed29a">4,430,141</span></p></td><td class="cl-9c108218"><p class="cl-9c107866"><span class="cl-9c0ed29a">5.3</span></p></td><td class="cl-9c108218"><p class="cl-9c107866"><span class="cl-9c0ed29a">5.3</span></p></td></tr></tbody></table></div>
+<div class="tabwid"><style>.cl-f7a9d5e6{}.cl-f7a6088a{font-family:'Helvetica';font-size:11pt;font-weight:normal;font-style:normal;text-decoration:none;color:rgba(0, 0, 0, 1.00);background-color:transparent;}.cl-f7a78674{margin:0;text-align:right;border-bottom: 0 solid rgba(0, 0, 0, 1.00);border-top: 0 solid rgba(0, 0, 0, 1.00);border-left: 0 solid rgba(0, 0, 0, 1.00);border-right: 0 solid rgba(0, 0, 0, 1.00);padding-bottom:5pt;padding-top:5pt;padding-left:5pt;padding-right:5pt;line-height: 1;background-color:transparent;}.cl-f7a7867e{margin:0;text-align:left;border-bottom: 0 solid rgba(0, 0, 0, 1.00);border-top: 0 solid rgba(0, 0, 0, 1.00);border-left: 0 solid rgba(0, 0, 0, 1.00);border-right: 0 solid rgba(0, 0, 0, 1.00);padding-bottom:5pt;padding-top:5pt;padding-left:5pt;padding-right:5pt;line-height: 1;background-color:transparent;}.cl-f7a78fca{width:0.75in;background-color:transparent;vertical-align: middle;border-bottom: 1.5pt solid rgba(102, 102, 102, 1.00);border-top: 1.5pt solid rgba(102, 102, 102, 1.00);border-left: 0 solid rgba(0, 0, 0, 1.00);border-right: 0 solid rgba(0, 0, 0, 1.00);margin-bottom:0;margin-top:0;margin-left:0;margin-right:0;}.cl-f7a78fd4{width:0.75in;background-color:transparent;vertical-align: middle;border-bottom: 1.5pt solid rgba(102, 102, 102, 1.00);border-top: 1.5pt solid rgba(102, 102, 102, 1.00);border-left: 0 solid rgba(0, 0, 0, 1.00);border-right: 0 solid rgba(0, 0, 0, 1.00);margin-bottom:0;margin-top:0;margin-left:0;margin-right:0;}.cl-f7a78fd5{width:0.75in;background-color:transparent;vertical-align: middle;border-bottom: 0 solid rgba(0, 0, 0, 1.00);border-top: 0 solid rgba(0, 0, 0, 1.00);border-left: 0 solid rgba(0, 0, 0, 1.00);border-right: 0 solid rgba(0, 0, 0, 1.00);margin-bottom:0;margin-top:0;margin-left:0;margin-right:0;}.cl-f7a78fd6{width:0.75in;background-color:transparent;vertical-align: middle;border-bottom: 0 solid rgba(0, 0, 0, 1.00);border-top: 0 solid rgba(0, 0, 0, 1.00);border-left: 0 solid rgba(0, 0, 0, 1.00);border-right: 0 solid rgba(0, 0, 0, 1.00);margin-bottom:0;margin-top:0;margin-left:0;margin-right:0;}.cl-f7a78fd7{width:0.75in;background-color:transparent;vertical-align: middle;border-bottom: 1.5pt solid rgba(102, 102, 102, 1.00);border-top: 0 solid rgba(0, 0, 0, 1.00);border-left: 0 solid rgba(0, 0, 0, 1.00);border-right: 0 solid rgba(0, 0, 0, 1.00);margin-bottom:0;margin-top:0;margin-left:0;margin-right:0;}.cl-f7a78fde{width:0.75in;background-color:transparent;vertical-align: middle;border-bottom: 1.5pt solid rgba(102, 102, 102, 1.00);border-top: 0 solid rgba(0, 0, 0, 1.00);border-left: 0 solid rgba(0, 0, 0, 1.00);border-right: 0 solid rgba(0, 0, 0, 1.00);margin-bottom:0;margin-top:0;margin-left:0;margin-right:0;}</style><table data-quarto-disable-processing="true" class="cl-f7a9d5e6"><thead><tr style="overflow-wrap:break-word;"><th class="cl-f7a78fca"><p class="cl-f7a78674"><span class="cl-f7a6088a">Year</span></p></th><th class="cl-f7a78fd4"><p class="cl-f7a7867e"><span class="cl-f7a6088a">113 Cause Name</span></p></th><th class="cl-f7a78fd4"><p class="cl-f7a7867e"><span class="cl-f7a6088a">Cause Name</span></p></th><th class="cl-f7a78fd4"><p class="cl-f7a7867e"><span class="cl-f7a6088a">State</span></p></th><th class="cl-f7a78fca"><p class="cl-f7a78674"><span class="cl-f7a6088a">Deaths</span></p></th><th class="cl-f7a78fca"><p class="cl-f7a78674"><span class="cl-f7a6088a">Population</span></p></th><th class="cl-f7a78fca"><p class="cl-f7a78674"><span class="cl-f7a6088a">Crude Rate</span></p></th><th class="cl-f7a78fca"><p class="cl-f7a78674"><span class="cl-f7a6088a">Age Adjusted Rate</span></p></th></tr></thead><tbody><tr style="overflow-wrap:break-word;"><td class="cl-f7a78fd5"><p class="cl-f7a78674"><span class="cl-f7a6088a">1,999</span></p></td><td class="cl-f7a78fd6"><p class="cl-f7a7867e"><span class="cl-f7a6088a">Tuberculosis (A16-A19)</span></p></td><td class="cl-f7a78fd6"><p class="cl-f7a7867e"><span class="cl-f7a6088a">Tuberculosis</span></p></td><td class="cl-f7a78fd6"><p class="cl-f7a7867e"><span class="cl-f7a6088a">Alabama</span></p></td><td class="cl-f7a78fd5"><p class="cl-f7a78674"><span class="cl-f7a6088a">16</span></p></td><td class="cl-f7a78fd5"><p class="cl-f7a78674"><span class="cl-f7a6088a">4,430,141</span></p></td><td class="cl-f7a78fd5"><p class="cl-f7a78674"><span class="cl-f7a6088a"></span></p></td><td class="cl-f7a78fd5"><p class="cl-f7a78674"><span class="cl-f7a6088a"></span></p></td></tr><tr style="overflow-wrap:break-word;"><td class="cl-f7a78fd5"><p class="cl-f7a78674"><span class="cl-f7a6088a">1,999</span></p></td><td class="cl-f7a78fd6"><p class="cl-f7a7867e"><span class="cl-f7a6088a">Septicemia (A40-A41)</span></p></td><td class="cl-f7a78fd6"><p class="cl-f7a7867e"><span class="cl-f7a6088a">Septicemia</span></p></td><td class="cl-f7a78fd6"><p class="cl-f7a7867e"><span class="cl-f7a6088a">Alabama</span></p></td><td class="cl-f7a78fd5"><p class="cl-f7a78674"><span class="cl-f7a6088a">691</span></p></td><td class="cl-f7a78fd5"><p class="cl-f7a78674"><span class="cl-f7a6088a">4,430,141</span></p></td><td class="cl-f7a78fd5"><p class="cl-f7a78674"><span class="cl-f7a6088a">15.6</span></p></td><td class="cl-f7a78fd5"><p class="cl-f7a78674"><span class="cl-f7a6088a">15.6</span></p></td></tr><tr style="overflow-wrap:break-word;"><td class="cl-f7a78fd5"><p class="cl-f7a78674"><span class="cl-f7a6088a">1,999</span></p></td><td class="cl-f7a78fd6"><p class="cl-f7a7867e"><span class="cl-f7a6088a">Viral hepatitis (B15-B19)</span></p></td><td class="cl-f7a78fd6"><p class="cl-f7a7867e"><span class="cl-f7a6088a">Viral hepatitis</span></p></td><td class="cl-f7a78fd6"><p class="cl-f7a7867e"><span class="cl-f7a6088a">Alabama</span></p></td><td class="cl-f7a78fd5"><p class="cl-f7a78674"><span class="cl-f7a6088a">63</span></p></td><td class="cl-f7a78fd5"><p class="cl-f7a78674"><span class="cl-f7a6088a">4,430,141</span></p></td><td class="cl-f7a78fd5"><p class="cl-f7a78674"><span class="cl-f7a6088a">1.4</span></p></td><td class="cl-f7a78fd5"><p class="cl-f7a78674"><span class="cl-f7a6088a">1.4</span></p></td></tr><tr style="overflow-wrap:break-word;"><td class="cl-f7a78fd5"><p class="cl-f7a78674"><span class="cl-f7a6088a">1,999</span></p></td><td class="cl-f7a78fd6"><p class="cl-f7a7867e"><span class="cl-f7a6088a">Human immunodeficiency virus (HIV) disease (B20-B24)</span></p></td><td class="cl-f7a78fd6"><p class="cl-f7a7867e"><span class="cl-f7a6088a">Human immunodeficiency virus</span></p></td><td class="cl-f7a78fd6"><p class="cl-f7a7867e"><span class="cl-f7a6088a">Alabama</span></p></td><td class="cl-f7a78fd5"><p class="cl-f7a78674"><span class="cl-f7a6088a">177</span></p></td><td class="cl-f7a78fd5"><p class="cl-f7a78674"><span class="cl-f7a6088a">4,430,141</span></p></td><td class="cl-f7a78fd5"><p class="cl-f7a78674"><span class="cl-f7a6088a">4.0</span></p></td><td class="cl-f7a78fd5"><p class="cl-f7a78674"><span class="cl-f7a6088a">4.0</span></p></td></tr><tr style="overflow-wrap:break-word;"><td class="cl-f7a78fd5"><p class="cl-f7a78674"><span class="cl-f7a6088a">1,999</span></p></td><td class="cl-f7a78fd6"><p class="cl-f7a7867e"><span class="cl-f7a6088a">Malignant neoplasms (C00-C97)</span></p></td><td class="cl-f7a78fd6"><p class="cl-f7a7867e"><span class="cl-f7a6088a">Cancer</span></p></td><td class="cl-f7a78fd6"><p class="cl-f7a7867e"><span class="cl-f7a6088a">Alabama</span></p></td><td class="cl-f7a78fd5"><p class="cl-f7a78674"><span class="cl-f7a6088a">9,506</span></p></td><td class="cl-f7a78fd5"><p class="cl-f7a78674"><span class="cl-f7a6088a">4,430,141</span></p></td><td class="cl-f7a78fd5"><p class="cl-f7a78674"><span class="cl-f7a6088a">214.6</span></p></td><td class="cl-f7a78fd5"><p class="cl-f7a78674"><span class="cl-f7a6088a">210.9</span></p></td></tr><tr style="overflow-wrap:break-word;"><td class="cl-f7a78fd7"><p class="cl-f7a78674"><span class="cl-f7a6088a">1,999</span></p></td><td class="cl-f7a78fde"><p class="cl-f7a7867e"><span class="cl-f7a6088a">In situ neoplasms, benign neoplasms and neoplasms of uncertain or unknown behavior (D00-D48)</span></p></td><td class="cl-f7a78fde"><p class="cl-f7a7867e"><span class="cl-f7a6088a">In situ neoplasms</span></p></td><td class="cl-f7a78fde"><p class="cl-f7a7867e"><span class="cl-f7a6088a">Alabama</span></p></td><td class="cl-f7a78fd7"><p class="cl-f7a78674"><span class="cl-f7a6088a">237</span></p></td><td class="cl-f7a78fd7"><p class="cl-f7a78674"><span class="cl-f7a6088a">4,430,141</span></p></td><td class="cl-f7a78fd7"><p class="cl-f7a78674"><span class="cl-f7a6088a">5.3</span></p></td><td class="cl-f7a78fd7"><p class="cl-f7a78674"><span class="cl-f7a6088a">5.3</span></p></td></tr></tbody></table></div>
 </div>
 </div>
 </section>
